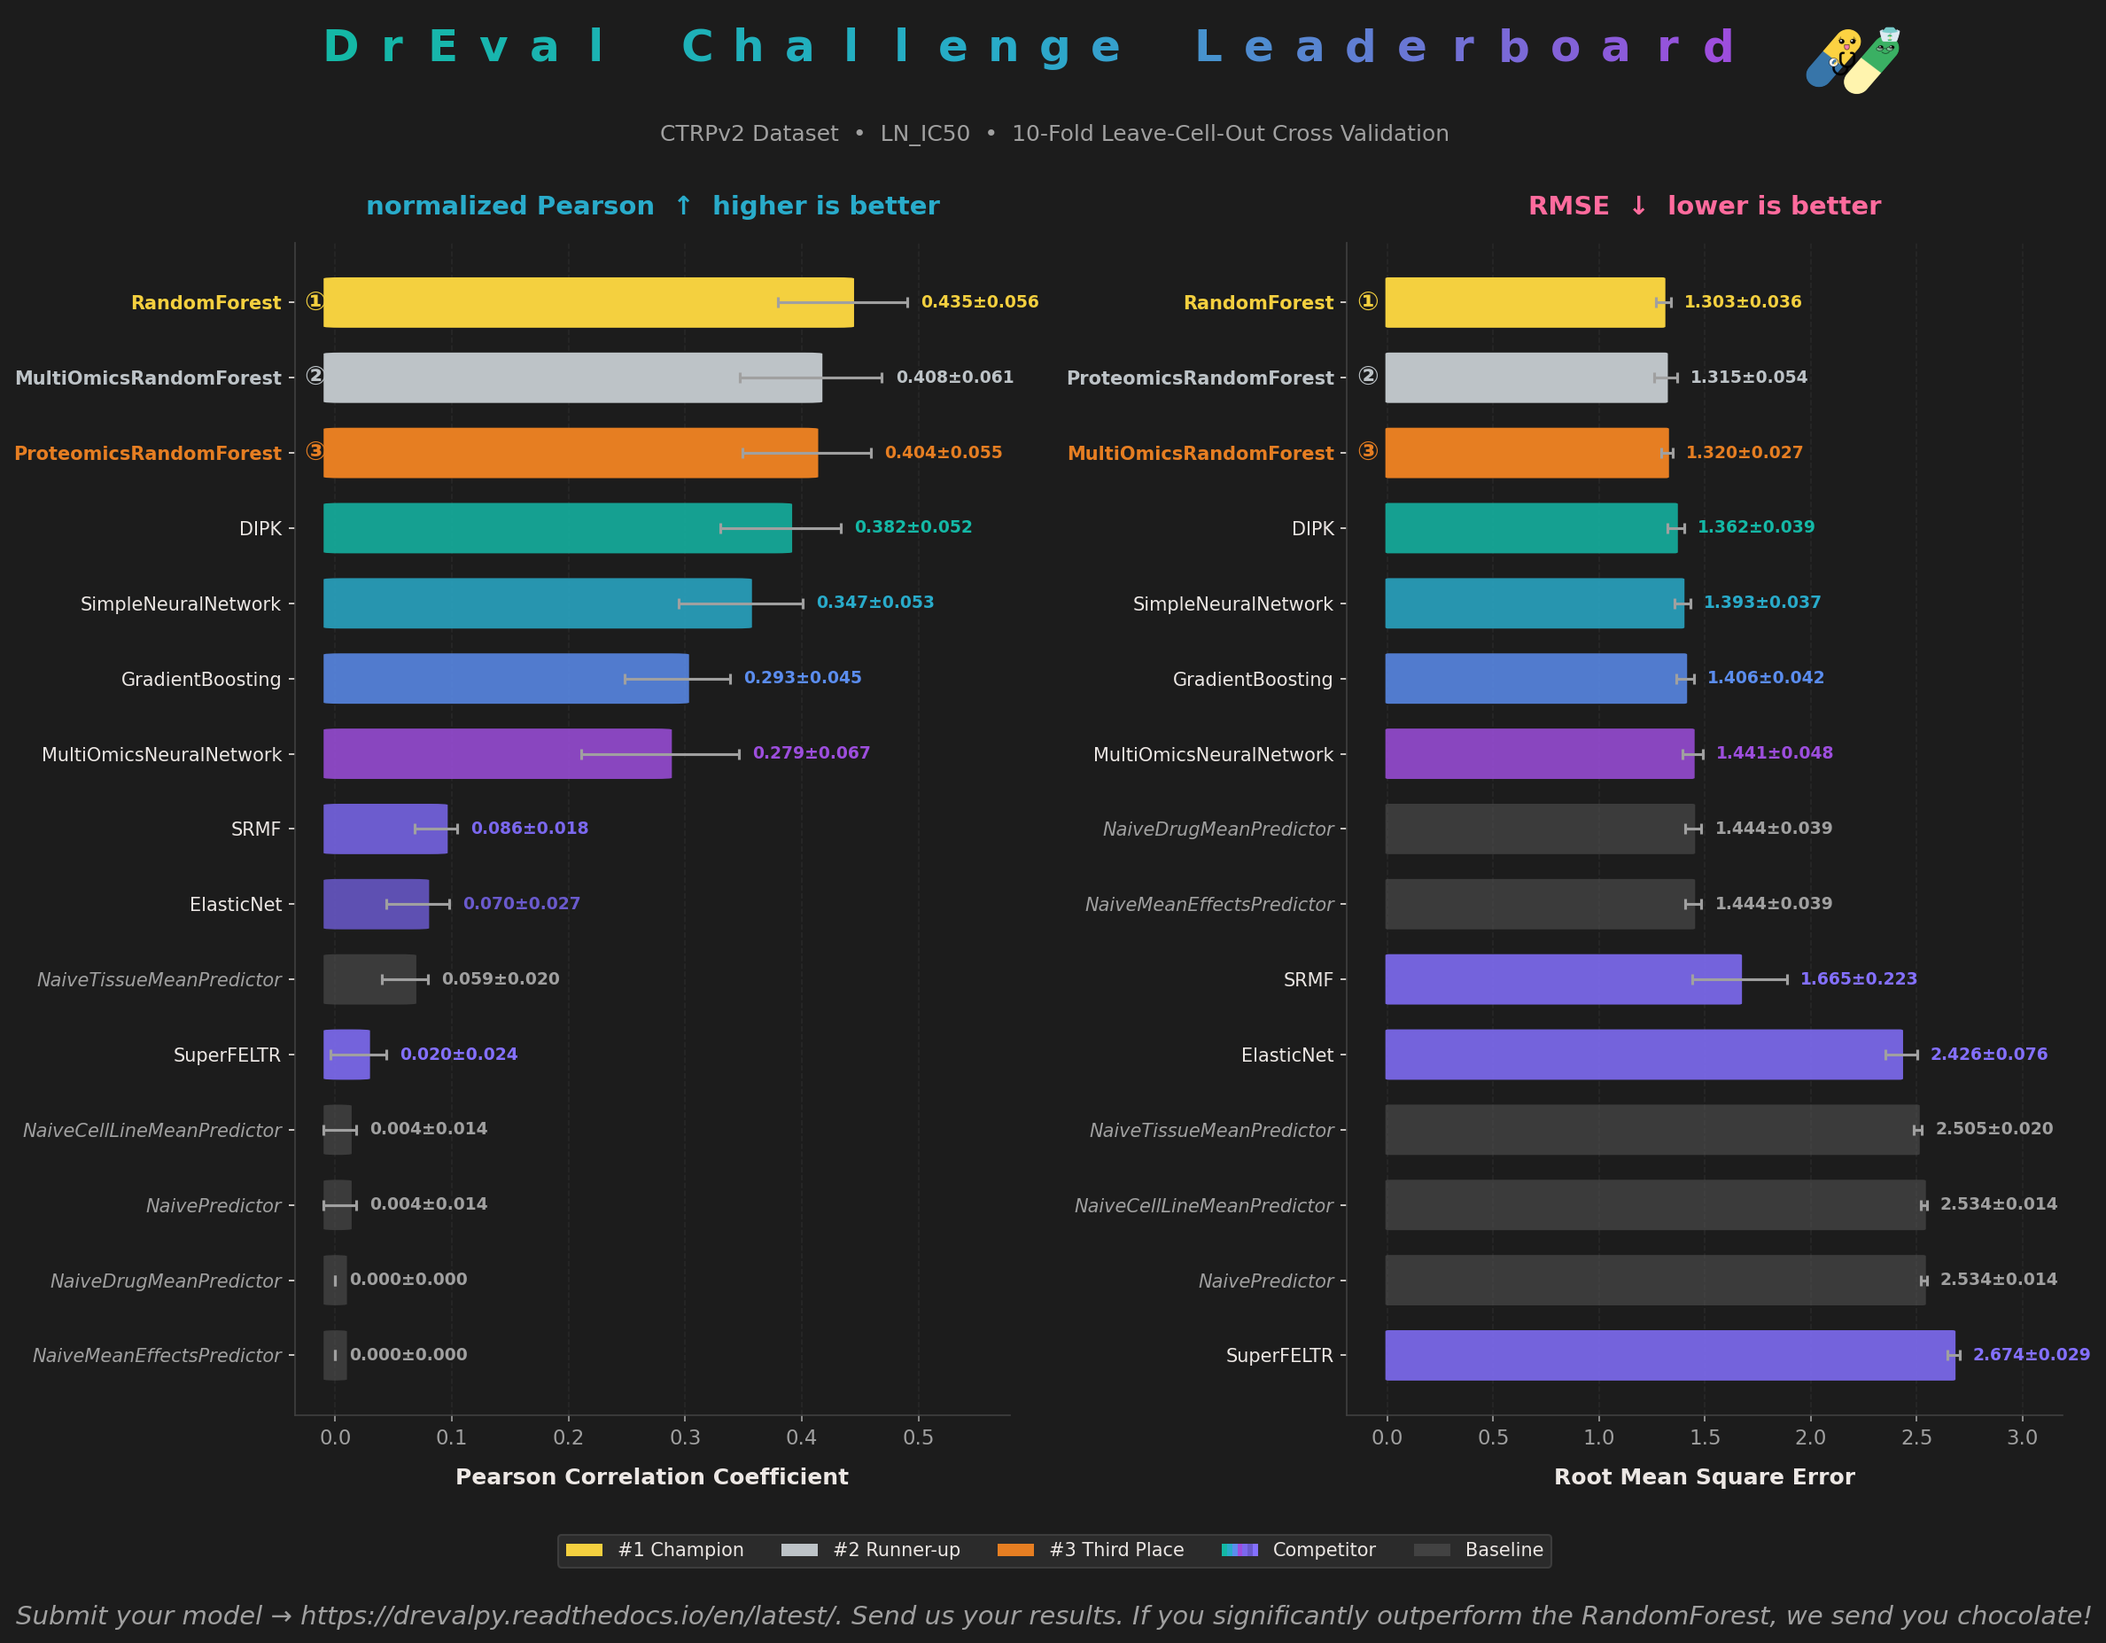
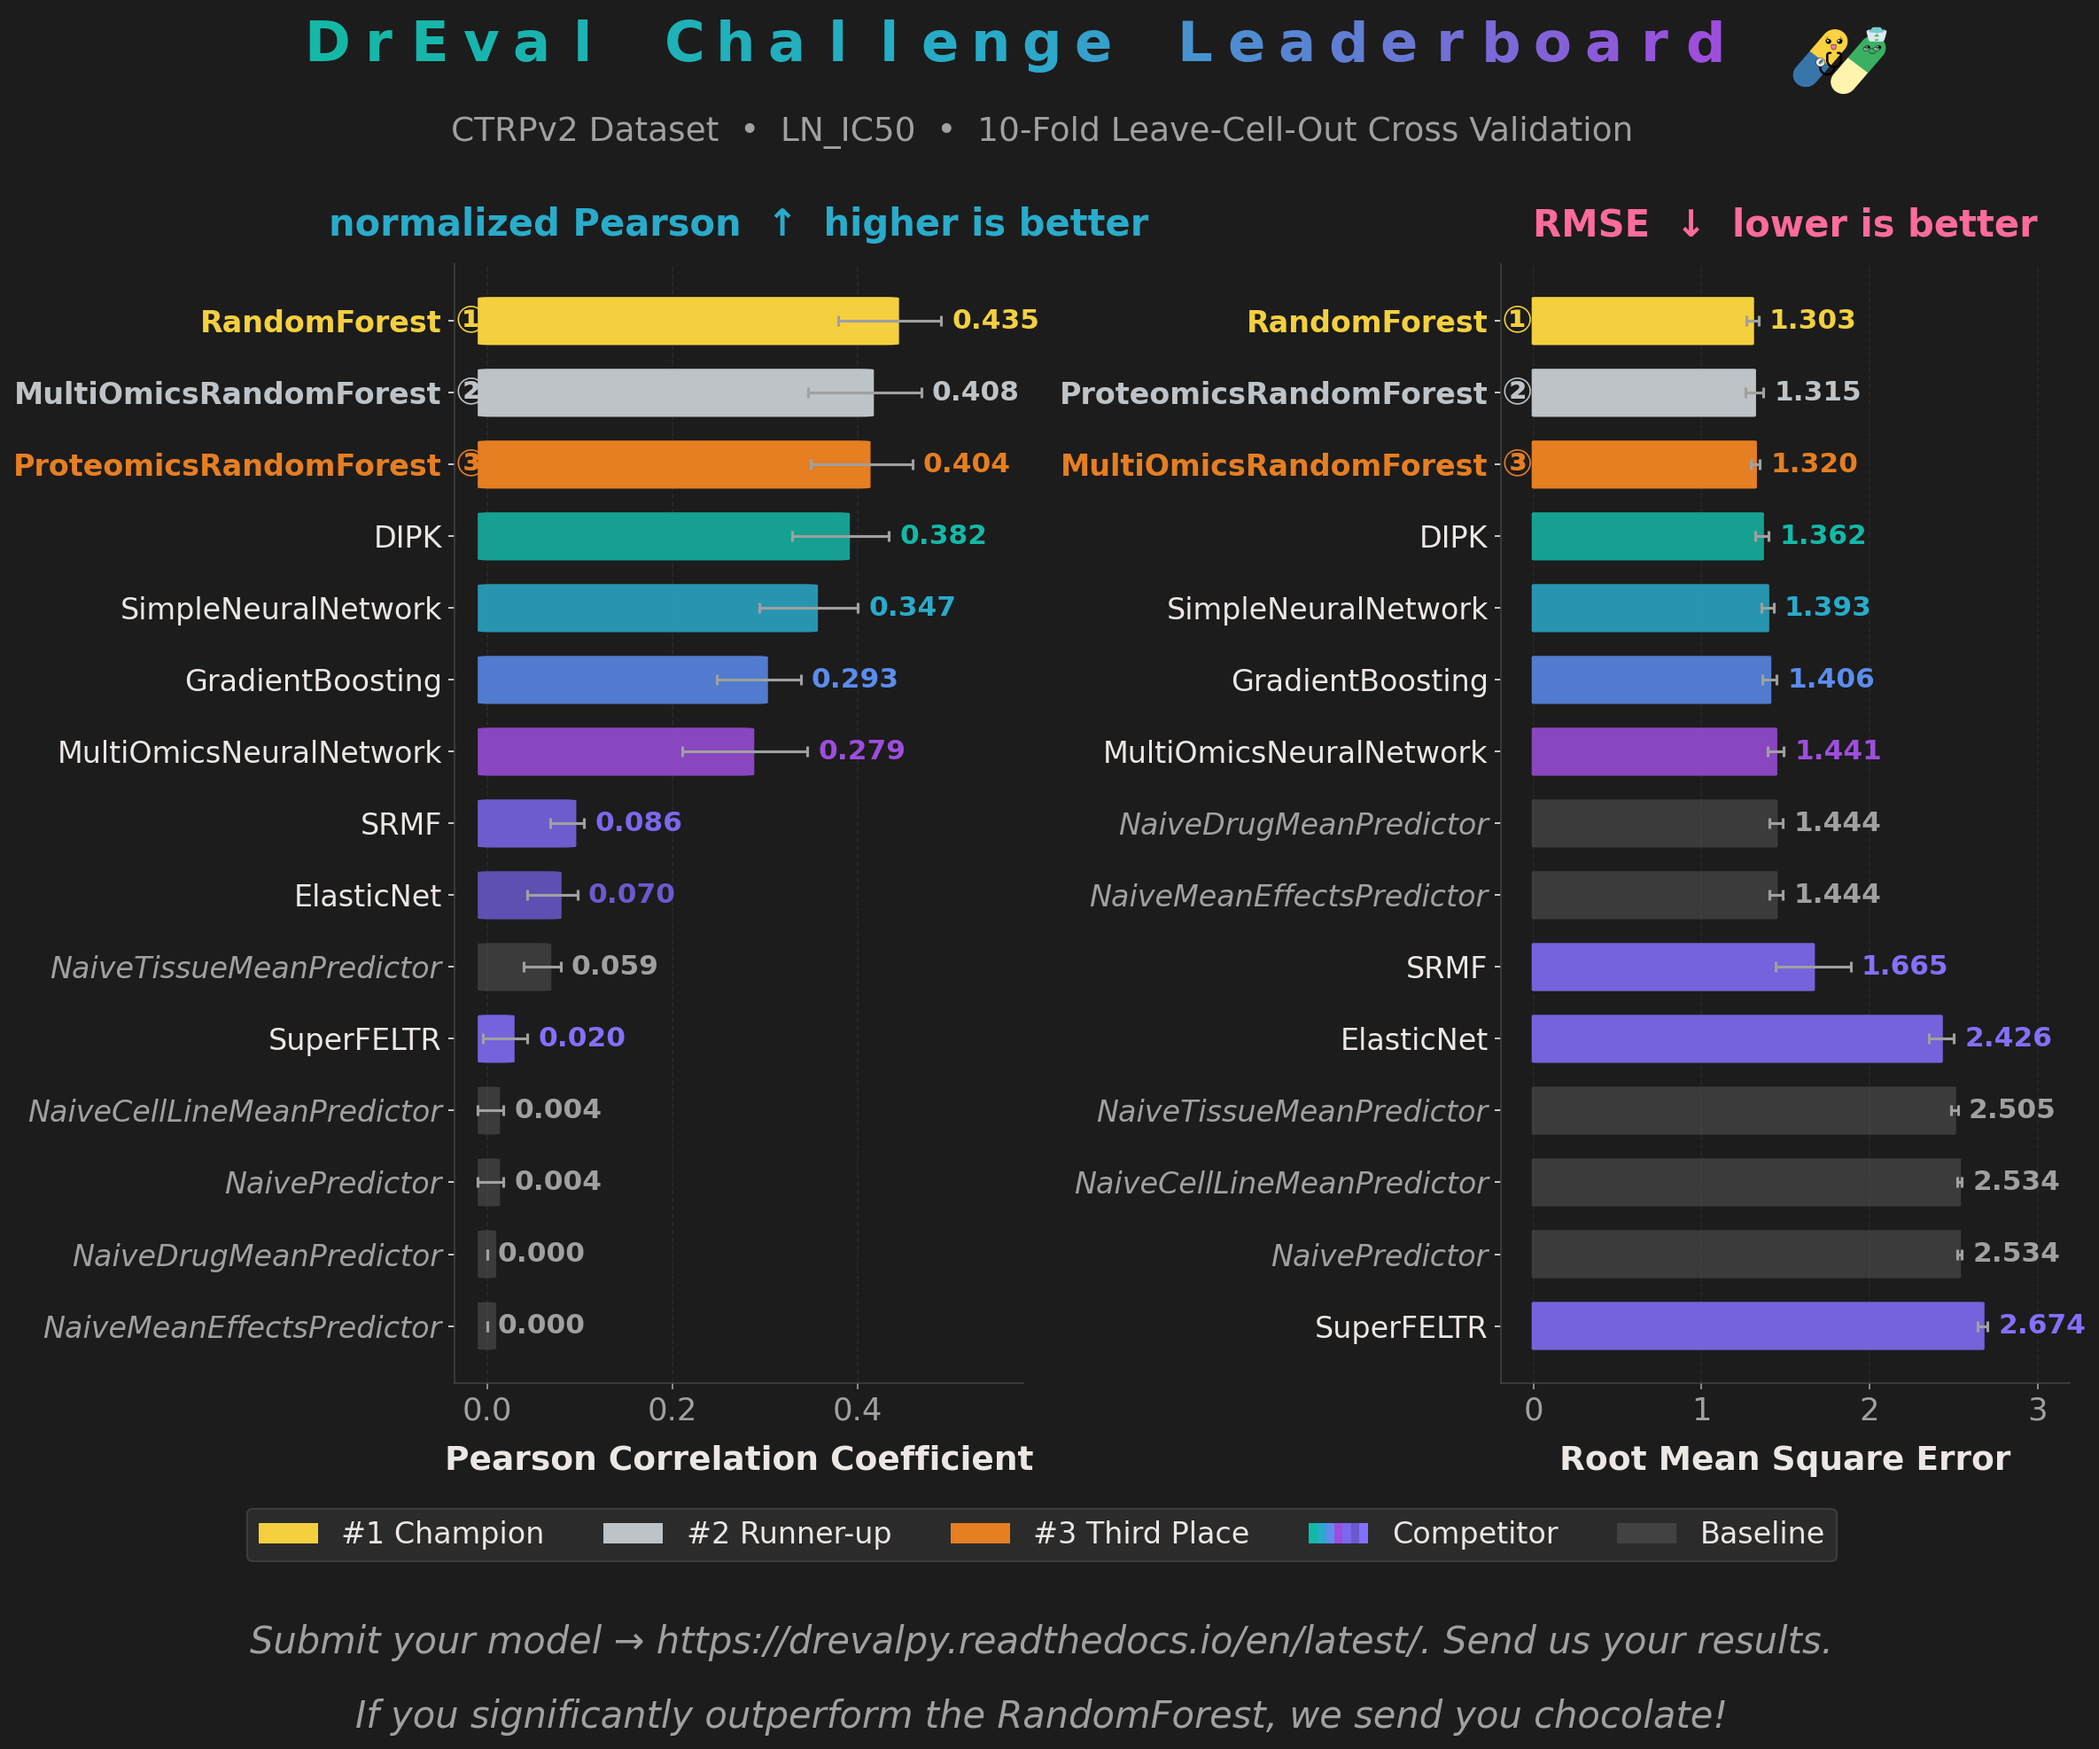
font size and removed std

diff --git a/drevalpy/visualization/create_leaderboard.py b/drevalpy/visualization/create_leaderboard.py
@@ -18,9 +18,6 @@ import pandas as pd
 from matplotlib.legend_handler import HandlerBase
 from matplotlib.patches import FancyBboxPatch, Rectangle
 
-# Global font scaler
-FONT_ADDER = 8
-
 COLORS = {
     "background": "#1c1c1c",
     "surface": "#2d2d2d",
@@ -93,8 +90,12 @@ class GradientHandler(HandlerBase):
         return patches
 
 
-def configure_matplotlib():
-    """Configure matplotlib for dark mode aesthetic."""
+def configure_matplotlib(font_adder: int = 0):
+    """
+    Configure matplotlib for dark mode aesthetic.
+
+    :param font_adder: Increment to add to the base font size.
+    """
     plt.rcParams.update(
         {
             "figure.facecolor": COLORS["background"],
@@ -106,7 +107,7 @@ def configure_matplotlib():
             "ytick.color": COLORS["text"],
             "grid.color": COLORS["grid"],
             "font.family": "sans-serif",
-            "font.size": 11 + FONT_ADDER,
+            "font.size": 11 + font_adder,
             "axes.spines.top": False,
             "axes.spines.right": False,
         }
@@ -214,6 +215,7 @@ def create_leaderboard(
     measure: str = "LN_IC50",
     figsize: tuple = (16, 12),
     show_top_n: int = None,
+    font_adder: int = 0,
 ) -> tuple:
     """
     Create a dual leaderboard visualization (PCC and RMSE).
@@ -225,9 +227,10 @@ def create_leaderboard(
     :param measure: Response measure.
     :param figsize: Figure size (width, height).
     :param show_top_n: Only show top N models.
+    :param font_adder: Increment to add to the base font size.
     :return: A tuple of (fig, (ax1, ax2)) matplotlib objects.
     """
-    configure_matplotlib()
+    configure_matplotlib(font_adder=font_adder)
 
     if show_top_n:
         df = df.head(show_top_n)
@@ -267,10 +270,10 @@ def create_leaderboard(
         ax1.text(
             label_x,
             y_positions[i],
-            f"{row['PCC']:.3f}±{row['PCC_std']:.3f}",
+            f"{row['PCC']:.3f}",
             va="center",
             ha="left",
-            fontsize=9 + FONT_ADDER,
+            fontsize=9 + font_adder,
             fontweight="bold",
             color=label_color,
             zorder=5,
@@ -285,7 +288,7 @@ def create_leaderboard(
                 medals[i],
                 va="center",
                 ha="center",
-                fontsize=14 + FONT_ADDER,
+                fontsize=14 + font_adder,
                 fontweight="bold",
                 color=style["color"],
                 zorder=5,
@@ -294,7 +297,7 @@ def create_leaderboard(
     ax1.set_xlim(-max_pcc * 0.06, max_pcc)
     ax1.set_ylim(-0.8, n_models - 0.2)
     ax1.set_yticks(y_positions)
-    ax1.set_yticklabels(df_pcc["algorithm"].values, fontsize=10 + FONT_ADDER)
+    ax1.set_yticklabels(df_pcc["algorithm"].values, fontsize=10 + font_adder)
 
     for i, label in enumerate(ax1.get_yticklabels()):
         if i < 3 and not df_pcc.iloc[i]["is_baseline"]:
@@ -306,13 +309,13 @@ def create_leaderboard(
         else:
             label.set_color(COLORS["text"])
 
-    ax1.set_xlabel("Pearson Correlation Coefficient", fontsize=12 + FONT_ADDER, fontweight="bold", labelpad=10)
+    ax1.set_xlabel("Pearson Correlation Coefficient", fontsize=12 + font_adder, fontweight="bold", labelpad=10)
     ax1.xaxis.grid(True, linestyle="--", alpha=0.3, color=COLORS["grid"])
     ax1.set_axisbelow(True)
     ax1.tick_params(axis="x", colors=COLORS["text_secondary"])
     ax1.set_title(
         "normalized Pearson  ↑  higher is better",
-        fontsize=14 + FONT_ADDER,
+        fontsize=14 + font_adder,
         fontweight="bold",
         color=COLORS["blue"],
         pad=15,
@@ -345,10 +348,10 @@ def create_leaderboard(
         ax2.text(
             label_x,
             y_positions[i],
-            f"{row['RMSE']:.3f}±{row['RMSE_std']:.3f}",
+            f"{row['RMSE']:.3f}",
             va="center",
             ha="left",
-            fontsize=9 + FONT_ADDER,
+            fontsize=9 + font_adder,
             fontweight="bold",
             color=label_color,
             zorder=5,
@@ -362,7 +365,7 @@ def create_leaderboard(
                 medals[i],
                 va="center",
                 ha="center",
-                fontsize=14 + FONT_ADDER,
+                fontsize=14 + font_adder,
                 fontweight="bold",
                 color=style["color"],
                 zorder=5,
@@ -371,8 +374,8 @@ def create_leaderboard(
     ax2.set_xlim(-max_rmse * 0.06, max_rmse)
     ax2.set_ylim(-0.8, n_models - 0.2)
     ax2.set_yticks(y_positions)
-    ax2.set_yticklabels(df_rmse["algorithm"].values, fontsize=10 + FONT_ADDER)
-    ax2.set_xlabel("Root Mean Square Error", fontsize=12 + FONT_ADDER, fontweight="bold", labelpad=10)
+    ax2.set_yticklabels(df_rmse["algorithm"].values, fontsize=10 + font_adder)
+    ax2.set_xlabel("Root Mean Square Error", fontsize=12 + font_adder, fontweight="bold", labelpad=10)
 
     for i, label in enumerate(ax2.get_yticklabels()):
         if i < 3 and not df_rmse.iloc[i]["is_baseline"]:
@@ -387,7 +390,7 @@ def create_leaderboard(
     ax2.xaxis.grid(True, linestyle="--", alpha=0.3, color=COLORS["grid"])
     ax2.set_axisbelow(True)
     ax2.tick_params(axis="x", colors=COLORS["text_secondary"])
-    ax2.set_title("RMSE  ↓  lower is better", fontsize=14 + FONT_ADDER, fontweight="bold", color=COLORS["pink"], pad=15)
+    ax2.set_title("RMSE  ↓  lower is better", fontsize=14 + font_adder, fontweight="bold", color=COLORS["pink"], pad=15)
 
     # Rainbow title
     title_text = "DrEval Challenge Leaderboard"
@@ -414,7 +417,7 @@ def create_leaderboard(
             title_x_start + j * 0.024,
             0.97,
             char,
-            fontsize=24 + FONT_ADDER,
+            fontsize=24 + font_adder,
             fontweight="bold",
             color=gradient_colors[j],
             ha="center",
@@ -424,7 +427,7 @@ def create_leaderboard(
         0.92,
         f"{dataset} Dataset  •  {measure}  •  {_get_test_mode_name(test_mode)}",
         ha="center",
-        fontsize=12 + FONT_ADDER,
+        fontsize=12 + font_adder,
         color=COLORS["text_secondary"],
     )
 
@@ -472,7 +475,7 @@ def create_leaderboard(
         frameon=True,
         facecolor=COLORS["surface"],
         edgecolor=COLORS["grid"],
-        fontsize=10 + FONT_ADDER,
+        fontsize=10 + font_adder,
         bbox_to_anchor=(0.5, 0.02),
         handler_map=handler_map,
     )
@@ -482,16 +485,20 @@ def create_leaderboard(
 
     footer_text = (
         "Submit your model → https://drevalpy.readthedocs.io/en/latest/. "
-        "Send us your results. If you significantly outperform the RandomForest, we send you chocolate!"
+        "Send us your results.\n\n"
+        "If you significantly outperform the RandomForest, we send you chocolate!"
     )
+
     fig.text(
         0.5,
         -0.01,
         footer_text,
         ha="center",
-        fontsize=14 + FONT_ADDER,
+        va="top",
+        fontsize=14 + font_adder,
         color=COLORS["text_secondary"],
         style="italic",
+        linespacing=1.0,
     )
 
     plt.tight_layout(rect=[0, 0.06, 1, 0.90])
@@ -570,15 +577,11 @@ def main():
     parser.add_argument(
         "--font_adder",
         type=int,
-        default=0,
+        default=6,
         help="Global font size increment (default: 0)",
     )
 
     args = parser.parse_args()
-
-    # Set global font adder from CLI
-    global FONT_ADDER
-    FONT_ADDER = args.font_adder
 
     df = load_results(args.results_path, test_mode=args.test_mode)
     create_leaderboard(
@@ -588,6 +591,7 @@ def main():
         dataset=args.dataset,
         measure=args.measure,
         show_top_n=args.top_n,
+        font_adder=args.font_adder,
     )
 
 
